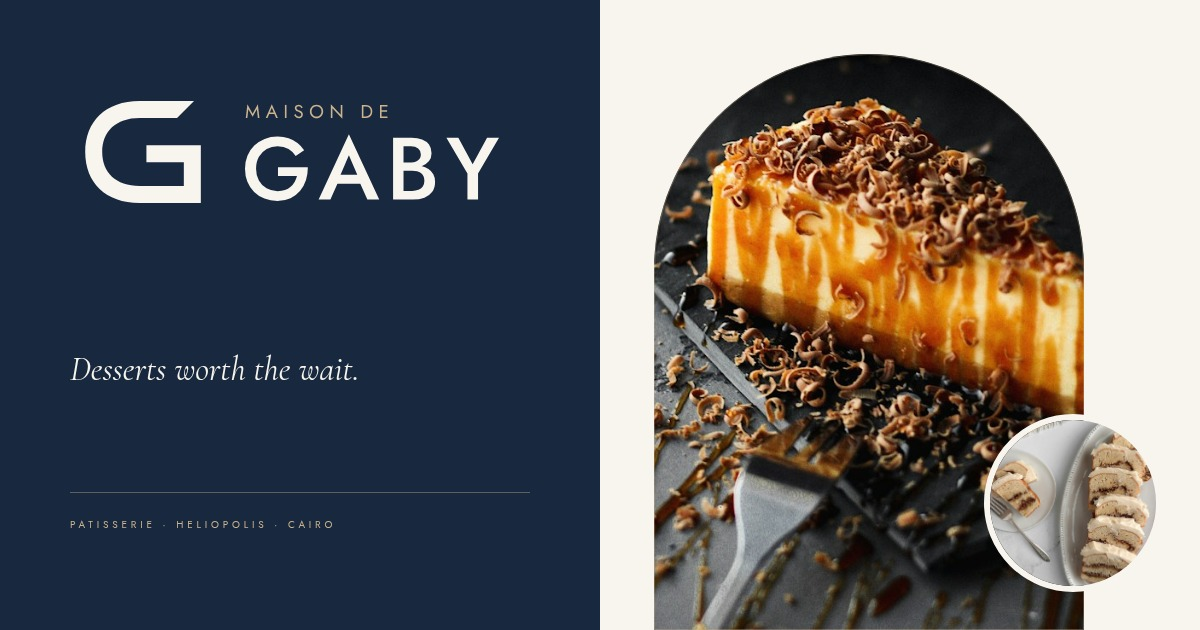
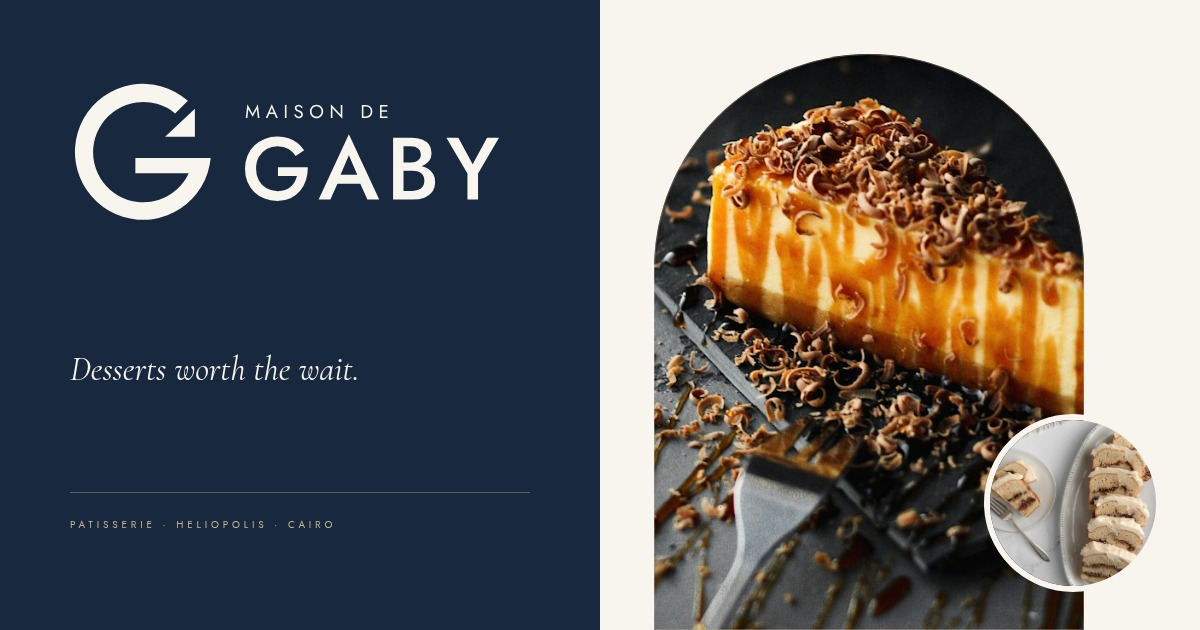
Apply the selected Precision G identity

Changed region(s): [[0.0617, 0.1206, 0.185, 0.3619], [0.2158, 0.1508, 0.3083, 0.181]]

diff --git a/public/index.html b/public/index.html
@@ -11,17 +11,17 @@
   <meta property="og:url" content="https://maison-mariam.vercel.app/">
   <meta property="og:title" content="Maison de Gaby · Desserts worth the wait">
   <meta property="og:description" content="Desserts baked by hand in Heliopolis, Cairo, boxed like a gift. Order a day ahead on WhatsApp.">
-  <meta property="og:image" content="https://maison-mariam.vercel.app/assets/og.jpg?v=2">
+  <meta property="og:image" content="https://maison-mariam.vercel.app/assets/og.jpg?v=3">
   <meta property="og:image:width" content="1200">
   <meta property="og:image:height" content="630">
   <meta property="og:image:alt" content="Maison de Gaby, patisserie in Heliopolis, Cairo">
   <meta name="twitter:card" content="summary_large_image">
   <meta name="theme-color" content="#18283f">
-  <link rel="icon" href="assets/favicon-g.svg?v=2" type="image/svg+xml">
-  <link rel="apple-touch-icon" href="assets/apple-touch-icon.png?v=2">
-  <link rel="manifest" href="site.webmanifest?v=2">
+  <link rel="icon" href="assets/favicon-g.svg?v=3" type="image/svg+xml">
+  <link rel="apple-touch-icon" href="assets/apple-touch-icon.png?v=3">
+  <link rel="manifest" href="site.webmanifest?v=3">
   <link rel="preload" as="image" href="assets/photos/milk-cloud.jpg" fetchpriority="high">
-  <link rel="stylesheet" href="css/style.css?v=5">
+  <link rel="stylesheet" href="css/style.css?v=6">
   <link rel="stylesheet" href="css/cards.css?v=1">
   <link rel="stylesheet" href="assets/vendor/leaflet/leaflet.css">
   <link rel="stylesheet" href="css/delivery.css?v=1">
@@ -37,8 +37,8 @@
     "name": "Maison de Gaby",
     "description": "Home patisserie in Heliopolis, Cairo. Desserts baked to order and delivered across Cairo.",
     "url": "https://maison-mariam.vercel.app/",
-    "image": "https://maison-mariam.vercel.app/assets/og.jpg?v=2",
-    "logo": "https://maison-mariam.vercel.app/assets/icon-512.png?v=2",
+    "image": "https://maison-mariam.vercel.app/assets/og.jpg?v=3",
+    "logo": "https://maison-mariam.vercel.app/assets/icon-512.png?v=3",
     "telephone": "+201550505386",
     "servesCuisine": "French patisserie",
     "priceRange": "EGP",
@@ -67,7 +67,7 @@
       <a href="#story">Our story</a>
     </nav>
     <a class="wordmark" href="#top" aria-label="Maison de Gaby home">
-      <img class="wm-mark" src="assets/mark.svg?v=2" alt="" width="46" height="46">
+      <img class="wm-mark" src="assets/mark.svg?v=3" alt="" width="46" height="46">
       <span class="wm-text">
         <span class="wm-small">Maison de</span>
         <span class="wm-big">Gaby</span>
@@ -154,7 +154,7 @@
       </div>
       <div class="emb-visual reveal" aria-hidden="true">
         <div class="gift-orbit"></div>
-        <div class="gift-box"><div class="gift-ribbon"></div><div class="gift-ribbon-cross"></div><div class="gift-seal"><img src="assets/mark.svg?v=2" alt="" width="36" height="36"></div><span class="gift-inscription"><img src="assets/logo.svg?v=2" alt="" width="140" height="51"><small>Made with care, in Cairo.</small></span></div>
+        <div class="gift-box"><div class="gift-ribbon"></div><div class="gift-ribbon-cross"></div><div class="gift-seal"><img src="assets/mark.svg?v=3" alt="" width="36" height="36"></div><span class="gift-inscription"><img src="assets/logo.svg?v=3" alt="" width="140" height="51"><small>Made with care, in Cairo.</small></span></div>
         <span class="gift-caption">A thoughtful gesture, beautifully wrapped.</span>
       </div>
     </section>
@@ -222,7 +222,7 @@
 
   <footer class="footer">
     <div class="footer-brand">
-      <img class="footer-mark" src="assets/mark-light.svg?v=2" alt="" width="56" height="56">
+      <img class="footer-mark" src="assets/mark-light.svg?v=3" alt="" width="56" height="56">
       <span class="wm-small">Maison de</span>
       <span class="wm-big">Gaby</span>
       <p class="footer-tag">Heliopolis · Cairo</p>

diff --git a/public/packaging.html b/public/packaging.html
@@ -6,9 +6,9 @@
   <title>The Art of Giving · Maison de Gaby</title>
   <meta name="description" content="A little ceremony, before the first bite. Discover Maison de Gaby's signature packaging and handwritten gift cards.">
   <meta name="theme-color" content="#18283f">
-  <link rel="icon" href="assets/favicon-g.svg?v=2" type="image/svg+xml">
-  <link rel="apple-touch-icon" href="assets/apple-touch-icon.png?v=2">
-  <link rel="stylesheet" href="css/style.css?v=5">
+  <link rel="icon" href="assets/favicon-g.svg?v=3" type="image/svg+xml">
+  <link rel="apple-touch-icon" href="assets/apple-touch-icon.png?v=3">
+  <link rel="stylesheet" href="css/style.css?v=6">
   <link rel="stylesheet" href="css/packaging.css?v=6">
   <link rel="stylesheet" href="css/cards.css?v=1">
   <script src="js/cards.js?v=1" defer></script>
@@ -22,7 +22,7 @@
       <a href="./#story"><span class="nav-index" aria-hidden="true">02</span> Our story</a>
     </nav>
     <a class="wordmark" href="./" aria-label="Maison de Gaby home">
-      <img class="wm-mark" src="assets/mark.svg?v=2" alt="" width="46" height="46">
+      <img class="wm-mark" src="assets/mark.svg?v=3" alt="" width="46" height="46">
       <span class="wm-text"><span class="wm-small">Maison de</span><span class="wm-big">Gaby</span></span>
     </a>
     <nav class="nav-links nav-right" aria-label="Secondary">
@@ -57,7 +57,7 @@
           <!-- wax seal -->
           <circle cx="200" cy="157" r="15" fill="#9B784B"/>
           <circle cx="200" cy="157" r="11" fill="none" stroke="#7B5C36" stroke-width="1"/>
-          <image href="assets/mark.svg?v=2" x="187" y="144" width="26" height="26"/>
+          <image href="assets/mark.svg?v=3" x="187" y="144" width="26" height="26"/>
           <!-- wordmark on lid -->
           <text x="116" y="222" text-anchor="middle" font-family="Jost, sans-serif" font-size="7" letter-spacing="3" fill="#9B784B">MAISON DE</text>
           <text x="116" y="240" text-anchor="middle" font-family="Jost, sans-serif" font-weight="500" font-size="18" letter-spacing="2" fill="#18283F">GABY</text>
@@ -79,7 +79,7 @@
           <text font-family="Cormorant Garamond, Georgia, serif" font-size="15" fill="#9B784B">
             <textPath href="#sealRing" textLength="532" lengthAdjust="spacing">HANDMADE · IN CAIRO · WITH LOVE ·</textPath>
           </text>
-          <image href="assets/mark-light.svg?v=2" x="94" y="94" width="112" height="112"/>
+          <image href="assets/mark-light.svg?v=3" x="94" y="94" width="112" height="112"/>
         </svg></div>
       <div class="piece-text">
         <p class="eyebrow">02 / The finishing touch</p>
@@ -130,7 +130,7 @@
 
   <footer class="footer">
     <div class="footer-brand">
-      <img class="footer-mark" src="assets/mark-light.svg?v=2" alt="" width="56" height="56">
+      <img class="footer-mark" src="assets/mark-light.svg?v=3" alt="" width="56" height="56">
       <span class="wm-small">Maison de</span><span class="wm-big">Gaby</span>
       <p class="footer-tag">A little heritage. A little everyday magic.</p>
     </div>

diff --git a/public/css/style.css b/public/css/style.css
@@ -72,7 +72,7 @@ section[id] { scroll-margin-top: 110px; }
 .wordmark { display: flex; gap: 10px; align-items: center; text-decoration: none; line-height: 1; }
 .wm-mark { width: 45px; height: 45px; flex: none; }
 .wm-text { display: flex; flex-direction: column; align-items: flex-start; }
-.wm-small { color: var(--gold); font: 400 8px/1 var(--sans); letter-spacing: .28em; text-transform: uppercase; }
+.wm-small { color: inherit; font: 400 8px/1 var(--sans); letter-spacing: .28em; text-transform: uppercase; }
 .wm-big { white-space: nowrap; font: 500 30px/1.1 var(--sans); letter-spacing: .12em; text-transform: uppercase; }
 .wm-text .wm-small { margin-bottom: 5px; }
 .box-btn { display: inline-flex; align-items: center; gap: 18px; min-height: 42px; padding: 8px 14px; border: 1px solid var(--line); border-radius: 2px; background: transparent; color: var(--navy); font: 400 10px/1 var(--sans); letter-spacing: .12em; text-transform: uppercase; cursor: pointer; transition: border-color .3s; }
@@ -201,7 +201,7 @@ section[id] { scroll-margin-top: 110px; }
 .footer { padding: 70px var(--gutter) 25px; color: #c8cdd0; background: var(--navy-deep); }
 .footer-brand { display: flex; flex-direction: column; align-items: center; text-align: center; color: var(--paper); margin-bottom: 45px; }
 .footer-brand .wm-big { font-size: 44px; letter-spacing: .16em; text-indent: .16em; }
-.footer-brand .wm-small { color: var(--gold-soft); margin-bottom: 9px; }
+.footer-brand .wm-small { color: inherit; margin-bottom: 9px; }
 .footer-mark { width: 58px; height: 58px; margin-bottom: 17px; }
 .footer-tag { color: var(--gold-soft); margin: 15px 0 0 !important; font-size: 9px !important; letter-spacing: .2em; text-transform: uppercase; }
 .footer-cols { max-width: var(--wrap); margin: 0 auto; display: grid; grid-template-columns: repeat(3,1fr); gap: 30px; text-align: center; border-top: 1px solid rgba(255,255,255,.13); border-bottom: 1px solid rgba(255,255,255,.13); padding: 30px 0; }

diff --git a/public/admin.html b/public/admin.html
@@ -6,16 +6,16 @@
   <title>Studio Admin · Maison de Gaby</title>
   <meta name="robots" content="noindex, nofollow">
   <meta name="theme-color" content="#18283f">
-  <link rel="icon" href="assets/favicon-g.svg?v=2" type="image/svg+xml">
-  <link rel="apple-touch-icon" href="assets/apple-touch-icon.png?v=2">
-  <link rel="stylesheet" href="css/style.css?v=5">
+  <link rel="icon" href="assets/favicon-g.svg?v=3" type="image/svg+xml">
+  <link rel="apple-touch-icon" href="assets/apple-touch-icon.png?v=3">
+  <link rel="stylesheet" href="css/style.css?v=6">
   <link rel="stylesheet" href="css/admin.css?v=3">
 </head>
 <body class="admin">
 
   <header class="ad-head">
     <a class="wordmark" href="./" target="_blank" rel="noopener" aria-label="Open the website">
-      <img class="wm-mark" src="assets/mark.svg?v=2" alt="" width="40" height="40">
+      <img class="wm-mark" src="assets/mark.svg?v=3" alt="" width="40" height="40">
       <span class="wm-text">
         <span class="wm-small">Maison de</span>
         <span class="wm-big">Gaby</span>

diff --git a/public/404.html b/public/404.html
@@ -6,8 +6,8 @@
   <title>Page not found · Maison de Gaby</title>
   <meta name="robots" content="noindex">
   <meta name="theme-color" content="#18283f">
-  <link rel="icon" href="/assets/favicon-g.svg?v=2" type="image/svg+xml">
-  <link rel="stylesheet" href="/css/style.css?v=5">
+  <link rel="icon" href="/assets/favicon-g.svg?v=3" type="image/svg+xml">
+  <link rel="stylesheet" href="/css/style.css?v=6">
   <style>
     .lost { min-height: 100vh; display: grid; place-content: center; text-align: center; padding: 40px 16px; }
     .lost img { width: 64px; height: 64px; margin: 0 auto 30px; }
@@ -17,7 +17,7 @@
 </head>
 <body>
   <main class="lost">
-    <img src="/assets/mark.svg?v=2" alt="" width="64" height="64">
+    <img src="/assets/mark.svg?v=3" alt="" width="64" height="64">
     <p class="eyebrow">Page not found</p>
     <h1>This page has <em>gone missing.</em></h1>
     <p>Perhaps it was eaten. The desserts are all still here, though.</p>

diff --git a/scripts/render-brand.py b/scripts/render-brand.py
@@ -38,17 +38,47 @@ def write_lockups(mark):
     small, _ = outlined_text('MAISON DE', 'jost-latin-400-normal.woff2', 110, 30, 11, 3.2)
     name, right = outlined_text('GABY', 'jost-latin-500-normal.woff2', 108, 78, 52, 4)
     width = round(right + 13)
-    for filename, foreground, accent in [('logo.svg', NAVY, '#8b6538'), ('logo-light.svg', PAPER, GOLD)]:
+    for filename, foreground in [('logo.svg', NAVY), ('logo-light.svg', PAPER)]:
         source = f'''<svg xmlns="http://www.w3.org/2000/svg" viewBox="0 0 {width} 100" role="img" aria-label="Maison de Gaby">
   <title>Maison de Gaby</title>
   <!-- Letterforms outlined from bundled Jost; see fonts/jost-LICENSE.txt. -->
   <path fill="{foreground}" d="{mark}"/>
-  <g fill="{accent}">{small}</g>
+  <g fill="{foreground}">{small}</g>
   <g fill="{foreground}">{name}</g>
 </svg>
 '''
         (ASSETS / filename).write_text(source)
-    return width
+    dimensions = {'logo': (width, 100), 'logo-light': (width, 100)}
+    small, small_width = outlined_text('MAISON DE', 'jost-latin-400-normal.woff2', 0, 224, 16, 4.8)
+    name, name_width = outlined_text('GABY', 'jost-latin-500-normal.woff2', 0, 286, 64, 3)
+    for filename, foreground in [('logo-stacked', NAVY), ('logo-stacked-light', PAPER)]:
+        source = f'''<svg xmlns="http://www.w3.org/2000/svg" viewBox="0 0 240 310" role="img" aria-label="Maison de Gaby">
+  <title>Maison de Gaby — Precision G</title>
+  <!-- Letterforms outlined from bundled Jost; see fonts/jost-LICENSE.txt. -->
+  <g fill="{foreground}">
+    <path transform="translate(20 0) scale(2)" d="{mark}"/>
+    <g transform="translate({(240 - small_width + 4.8) / 2:.3f} 0)">{small}</g>
+    <g transform="translate({(240 - name_width + 3) / 2:.3f} 0)">{name}</g>
+  </g>
+</svg>
+'''
+        (ASSETS / (filename + '.svg')).write_text(source)
+        dimensions[filename] = (240, 310)
+    return dimensions
+
+
+def write_mark_variants(mark):
+    (ASSETS / 'mark-light.svg').write_text(f'''<svg xmlns="http://www.w3.org/2000/svg" viewBox="0 0 100 100" role="img" aria-label="Maison de Gaby">
+  <title>Maison de Gaby — Precision G</title>
+  <path fill="{PAPER}" d="{mark}"/>
+</svg>
+''')
+    (ASSETS / 'favicon-g.svg').write_text(f'''<svg xmlns="http://www.w3.org/2000/svg" viewBox="0 0 100 100" role="img" aria-label="Maison de Gaby">
+  <title>Maison de Gaby — Precision G</title>
+  <rect width="100" height="100" rx="24" fill="{NAVY}"/>
+  <path fill="{PAPER}" d="{mark}"/>
+</svg>
+''')
 
 
 class Handler(SimpleHTTPRequestHandler):
@@ -58,7 +88,8 @@ class Handler(SimpleHTTPRequestHandler):
 
 def render():
     mark = ElementTree.parse(ASSETS / 'mark.svg').getroot().find(NS + 'path').attrib['d']
-    logo_width = write_lockups(mark)
+    write_mark_variants(mark)
+    dimensions = write_lockups(mark)
     server = ThreadingHTTPServer(('127.0.0.1', 0), partial(Handler, directory=str(ROOT / 'public')))
     thread = threading.Thread(target=server.serve_forever, daemon=True)
     thread.start()
@@ -77,8 +108,8 @@ def render():
 <rect width="100" height="100" fill="{NAVY}"/>
 <g transform="translate(6 6) scale(.88)"><path fill="{PAPER}" d="{mark}"/></g></svg></body></html>''')
                 page.screenshot(path=str(ASSETS / filename))
-            for filename in ['logo', 'logo-light']:
-                width, height = 1200, round(120000 / logo_width)
+            for filename, (source_width, source_height) in dimensions.items():
+                width, height = 1200, round(1200 * source_height / source_width)
                 page.set_viewport_size({'width': width, 'height': height})
                 page.set_content(f'''<!doctype html><html><body style="margin:0;background:transparent">
 <img src="{base}/assets/{filename}.svg" width="{width}" height="{height}" style="display:block" alt="Maison de Gaby"></body></html>''')
@@ -110,7 +141,7 @@ def render():
     finally:
         server.shutdown()
         server.server_close()
-    print('Rendered outlined SVG/transparent PNG wordmarks, 180/192/512px app icons, and 1200×630 link preview.')
+    print('Rendered Precision G variants, outlined SVG/transparent PNG lockups, app icons and link preview.')
 
 
 if __name__ == '__main__':

diff --git a/README.md b/README.md
@@ -142,9 +142,12 @@ cart totals, WhatsApp drafts, removal of saved retired/sold-out items, and cart 
 
 ## Logo assets
 
-The identity pairs a geometric G with an uppercase Jost wordmark. `public/assets/mark.svg` and
+The selected Precision identity pairs a round geometric G and detached diagonal detail with an uppercase
+Jost wordmark. `public/assets/mark.svg` and
 `mark-light.svg` are the monochrome symbols; `logo.svg` and `logo-light.svg` are complete, outlined SVG
 logos for reuse without installing fonts. Matching `logo.png` and `logo-light.png` have transparent backgrounds.
+`logo-stacked.svg` and `logo-stacked-light.svg` preserve the stacked design for print and social use,
+with matching transparent PNG exports at 1200 × 1550 pixels.
 The website wordmark uses accessible text and the bundled Jost font.
 
 The favicon, touch/app icons and link preview use the same mark. The optional `scripts/render-brand.py`

diff --git a/AGENTS.md b/AGENTS.md
@@ -57,6 +57,8 @@ If you need to change the other agent's area, keep the change small and note it 
 
 Newest first. One or two lines each: date, agent, what changed, what's left.
 
+- 2026-10-29 · Codex: owner selected Precision G (option 1); applied the round G and detached diagonal detail
+  across the site, packaging, icons and OG. Added stacked SVG/PNG exports; responsive and 19 API checks pass.
 - 2026-10-29 · Codex: simplified the logo to a geometric G and Jost wordmark across the site, packaging, icons and OG.
   Added SVG/transparent PNG exports and an optional renderer; responsive, menu, 19 API and 8 courier checks pass.
 - 2026-10-29 · Codex: owner confirmed all five cakes are 20 × 20 cm; updated public menu introduction and starter data.
